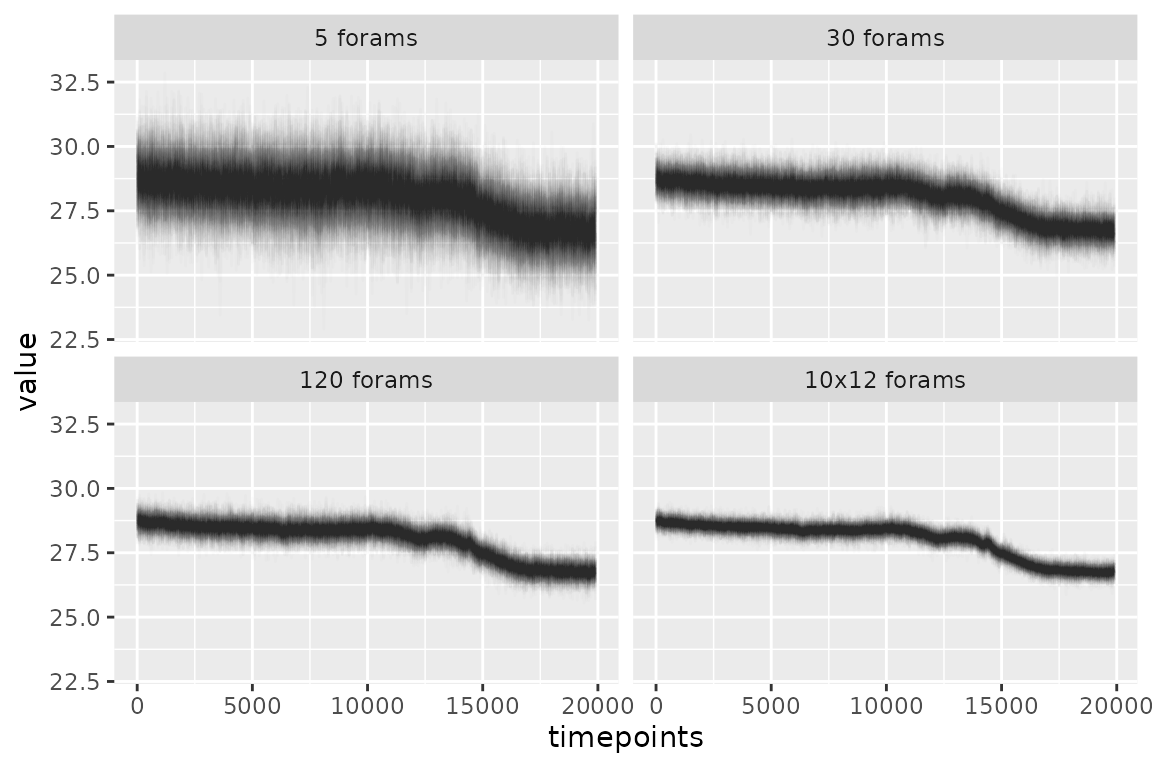
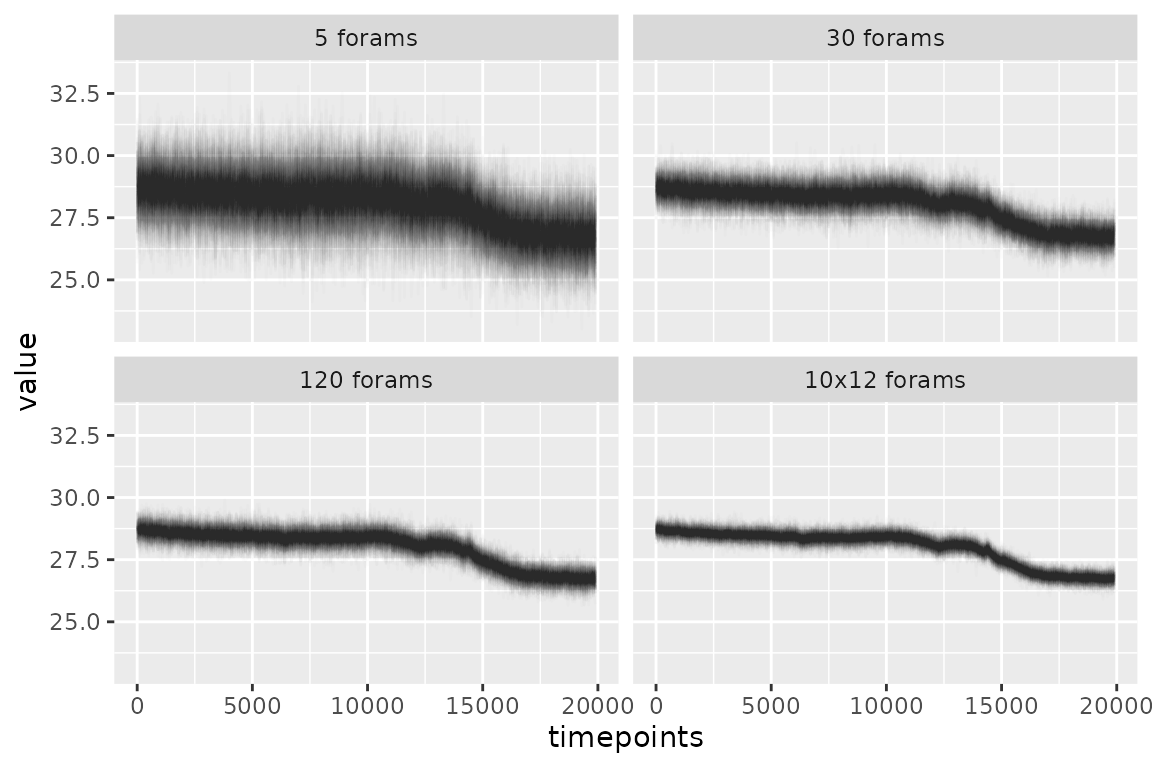
Deploying to gh-pages from @ EarthSystemDiagnostics/sedproxy@bc8ff098fba8550ed35e074e554b4f336eaf126f 🚀

diff --git a/index.html b/index.html
@@ -76,8 +76,11 @@
 <div class="section level2">
 <h2 id="installation">Installation<a class="anchor" aria-label="anchor" href="#installation"></a>
 </h2>
-<p><strong>sedproxy</strong> can be installed directly from github</p>
+<p><strong>sedproxy</strong> will soon be installable from CRAN</p>
 <div class="sourceCode" id="cb1"><pre class="downlit sourceCode r">
+<code class="sourceCode R"><span class="fu"><a href="https://rdrr.io/r/utils/install.packages.html" class="external-link">install.packages</a></span><span class="op">(</span><span class="st">"sedproxy"</span><span class="op">)</span></code></pre></div>
+<p>In the mean time the development version can be installed directly from GitHub</p>
+<div class="sourceCode" id="cb2"><pre class="downlit sourceCode r">
 <code class="sourceCode R"><span class="kw">if</span> <span class="op">(</span><span class="op">!</span><span class="kw"><a href="https://rdrr.io/r/base/library.html" class="external-link">require</a></span><span class="op">(</span><span class="st"><a href="https://devtools.r-lib.org/" class="external-link">"devtools"</a></span><span class="op">)</span><span class="op">)</span> <span class="op">{</span>
   <span class="fu"><a href="https://rdrr.io/r/utils/install.packages.html" class="external-link">install.packages</a></span><span class="op">(</span><span class="st">"devtools"</span><span class="op">)</span>
 <span class="op">}</span>
@@ -89,7 +92,7 @@
 </h2>
 <p>A Shiny app provides a graphical user interface to the main <code>sedproxy</code> function <code>ClimToProxyClim</code>. Currently this app forward models a proxy from a randomly generated input climate and serves only to illustrate the functionality of <code>sedproxy</code>. The user can alter the parameters of the forward model and observe the results graphically. In future versions it may be possible to load input climates and other input parameters from a file and to save the output.</p>
 <p>To run the Shiny app enter the following in the R terminal:</p>
-<div class="sourceCode" id="cb2"><pre class="downlit sourceCode r">
+<div class="sourceCode" id="cb3"><pre class="downlit sourceCode r">
 <code class="sourceCode R"><span class="kw"><a href="https://rdrr.io/r/base/library.html" class="external-link">library</a></span><span class="op">(</span><span class="va"><a href="https://earthsystemdiagnostics.github.io/sedproxy/">sedproxy</a></span><span class="op">)</span>
 <span class="fu"><a href="reference/ShinySedproxy.html">ShinySedproxy</a></span><span class="op">(</span><span class="op">)</span></code></pre></div>
 <p><img src="reference/figures/sedproxy-screenshot.png"></p>
@@ -101,11 +104,11 @@
 </h2>
 <p><code>sedproxy</code> includes example data for a single sediment core and location: core number 41 in the Shakun et al. (2012) compilation (MD97-2141, Rosenthal et al. 2003). The climate signal is taken from the <a href="http://www.cgd.ucar.edu/ccr/TraCE/" class="external-link">TraCE-21ka</a> Simulation of Transient Climate Evolution over the last 21,000 years, using the grid cell closest to core MD97-2141. Seasonality of <em>G.ruber</em>, the Foraminifera for which test Mg/Ca ratios were measured, is taken from the model of Fraile et al (2008). Sediment accumulation rates were estimated from the depth and age data associated with core MD97-2141, with a minimum rate of 0.2 * the mean rate.</p>
 <p><strong>The MD97-2141 core</strong></p>
-<div class="sourceCode" id="cb3"><pre class="downlit sourceCode r">
+<div class="sourceCode" id="cb4"><pre class="downlit sourceCode r">
 <code class="sourceCode R"><span class="kw"><a href="https://rdrr.io/r/base/library.html" class="external-link">library</a></span><span class="op">(</span><span class="va"><a href="https://tidyverse.tidyverse.org" class="external-link">tidyverse</a></span><span class="op">)</span>
 <span class="kw"><a href="https://rdrr.io/r/base/library.html" class="external-link">library</a></span><span class="op">(</span><span class="va"><a href="https://yihui.org/knitr/" class="external-link">knitr</a></span><span class="op">)</span>
 <span class="kw"><a href="https://rdrr.io/r/base/library.html" class="external-link">library</a></span><span class="op">(</span><span class="va"><a href="https://earthsystemdiagnostics.github.io/sedproxy/">sedproxy</a></span><span class="op">)</span></code></pre></div>
-<div class="sourceCode" id="cb4"><pre class="downlit sourceCode r">
+<div class="sourceCode" id="cb5"><pre class="downlit sourceCode r">
 <code class="sourceCode R"><span class="va">N41.proxy.details</span> <span class="op"><a href="https://magrittr.tidyverse.org/reference/pipe.html" class="external-link">%&gt;%</a></span> 
   <span class="fu"><a href="https://dplyr.tidyverse.org/reference/mutate_all.html" class="external-link">mutate_if</a></span><span class="op">(</span><span class="va">is.numeric</span>, <span class="va">round</span>, digits <span class="op">=</span> <span class="fl">2</span><span class="op">)</span> <span class="op"><a href="https://magrittr.tidyverse.org/reference/pipe.html" class="external-link">%&gt;%</a></span> 
   <span class="fu"><a href="https://tidyr.tidyverse.org/reference/gather.html" class="external-link">gather</a></span><span class="op">(</span><span class="op">)</span> <span class="op"><a href="https://magrittr.tidyverse.org/reference/pipe.html" class="external-link">%&gt;%</a></span> 
@@ -188,7 +191,7 @@
 </table>
 <p><strong>Input climate signal</strong></p>
 <p>The first 5 rows:</p>
-<div class="sourceCode" id="cb5"><pre class="downlit sourceCode r">
+<div class="sourceCode" id="cb6"><pre class="downlit sourceCode r">
 <code class="sourceCode R"><span class="op">(</span><span class="va">N41.t21k.climate</span><span class="op">[</span><span class="fl">1</span><span class="op">:</span><span class="fl">5</span>,<span class="op">]</span><span class="op">-</span><span class="fl">273.15</span><span class="op">)</span> <span class="op"><a href="https://magrittr.tidyverse.org/reference/pipe.html" class="external-link">%&gt;%</a></span> 
   <span class="fu"><a href="https://rdrr.io/pkg/knitr/man/kable.html" class="external-link">kable</a></span><span class="op">(</span><span class="va">.</span>, format <span class="op">=</span> <span class="st">"markdown"</span>, digits <span class="op">=</span> <span class="fl">2</span><span class="op">)</span></code></pre></div>
 <table class="table">
@@ -281,7 +284,7 @@
 </table>
 <p><strong>Actual proxy record</strong></p>
 <p>Core MD97-2141 (Rosenthal et al. 2003)</p>
-<div class="sourceCode" id="cb6"><pre class="downlit sourceCode r">
+<div class="sourceCode" id="cb7"><pre class="downlit sourceCode r">
 <code class="sourceCode R"><span class="fu"><a href="https://rdrr.io/pkg/knitr/man/kable.html" class="external-link">kable</a></span><span class="op">(</span><span class="fu"><a href="https://rdrr.io/r/utils/head.html" class="external-link">head</a></span><span class="op">(</span><span class="va">N41.proxy</span><span class="op">)</span>, format <span class="op">=</span> <span class="st">"markdown"</span><span class="op">)</span></code></pre></div>
 <table class="table">
 <thead><tr class="header">
@@ -336,7 +339,7 @@
 <a class="anchor" aria-label="anchor" href="#function-climtoproxyclim"></a>
 </h2>
 <p><code>ClimToProxyClim</code> is the main function in package <code>sedproxy</code>. It simulates a sediment archived proxy from an assumed true climate signal, the sediment accumulation rate, seasonality of the encoding organism/process, and the number of samples per timepoint.</p>
-<div class="sourceCode" id="cb7"><pre class="downlit sourceCode r">
+<div class="sourceCode" id="cb8"><pre class="downlit sourceCode r">
 <code class="sourceCode R"><span class="fu"><a href="https://rdrr.io/r/base/Random.html" class="external-link">set.seed</a></span><span class="op">(</span><span class="fl">26052017</span><span class="op">)</span>
 <span class="va">clim.in</span> <span class="op">&lt;-</span> <span class="va">N41.t21k.climate</span><span class="op">[</span><span class="fu"><a href="https://rdrr.io/r/base/nrow.html" class="external-link">nrow</a></span><span class="op">(</span><span class="va">N41.t21k.climate</span><span class="op">)</span><span class="op">:</span><span class="fl">1</span>,<span class="op">]</span> <span class="op">-</span> <span class="fl">273.15</span>
 
@@ -354,46 +357,46 @@
                        sigma.ind <span class="op">=</span> <span class="fl">2</span>,
                        n.samples <span class="op">=</span> <span class="fl">30</span>,
                        n.replicates <span class="op">=</span> <span class="fl">10</span><span class="op">)</span></code></pre></div>
-<div class="sourceCode" id="cb8"><pre class="downlit sourceCode r">
+<div class="sourceCode" id="cb9"><pre class="downlit sourceCode r">
 <code class="sourceCode R"><span class="va">PFM</span><span class="op">$</span><span class="va">everything</span></code></pre></div>
-<div class="sourceCode" id="cb9"><pre class="sourceCode R"><code class="sourceCode r"><span id="cb9-1"><a href="#cb9-1" aria-hidden="true" tabindex="-1"></a><span class="do">## # A tibble: 14,045 x 7</span></span>
-<span id="cb9-2"><a href="#cb9-2" aria-hidden="true" tabindex="-1"></a><span class="do">##    timepoints n.samples replicate stage             value scale       label     </span></span>
-<span id="cb9-3"><a href="#cb9-3" aria-hidden="true" tabindex="-1"></a><span class="do">##         &lt;dbl&gt;     &lt;dbl&gt;     &lt;dbl&gt; &lt;chr&gt;             &lt;dbl&gt; &lt;chr&gt;       &lt;chr&gt;     </span></span>
-<span id="cb9-4"><a href="#cb9-4" aria-hidden="true" tabindex="-1"></a><span class="do">##  1       4334        30         1 proxy.bt.sb.sampY  27.7 Proxy units (4) +Alia~</span></span>
-<span id="cb9-5"><a href="#cb9-5" aria-hidden="true" tabindex="-1"></a><span class="do">##  2       4527        30         1 proxy.bt.sb.sampY  27.7 Proxy units (4) +Alia~</span></span>
-<span id="cb9-6"><a href="#cb9-6" aria-hidden="true" tabindex="-1"></a><span class="do">##  3       4576        30         1 proxy.bt.sb.sampY  27.7 Proxy units (4) +Alia~</span></span>
-<span id="cb9-7"><a href="#cb9-7" aria-hidden="true" tabindex="-1"></a><span class="do">##  4       4721        30         1 proxy.bt.sb.sampY  27.6 Proxy units (4) +Alia~</span></span>
-<span id="cb9-8"><a href="#cb9-8" aria-hidden="true" tabindex="-1"></a><span class="do">##  5       4914        30         1 proxy.bt.sb.sampY  27.6 Proxy units (4) +Alia~</span></span>
-<span id="cb9-9"><a href="#cb9-9" aria-hidden="true" tabindex="-1"></a><span class="do">##  6       4994        30         1 proxy.bt.sb.sampY  27.6 Proxy units (4) +Alia~</span></span>
-<span id="cb9-10"><a href="#cb9-10" aria-hidden="true" tabindex="-1"></a><span class="do">##  7       5092        30         1 proxy.bt.sb.sampY  27.7 Proxy units (4) +Alia~</span></span>
-<span id="cb9-11"><a href="#cb9-11" aria-hidden="true" tabindex="-1"></a><span class="do">##  8       5156        30         1 proxy.bt.sb.sampY  27.6 Proxy units (4) +Alia~</span></span>
-<span id="cb9-12"><a href="#cb9-12" aria-hidden="true" tabindex="-1"></a><span class="do">##  9       5254        30         1 proxy.bt.sb.sampY  27.7 Proxy units (4) +Alia~</span></span>
-<span id="cb9-13"><a href="#cb9-13" aria-hidden="true" tabindex="-1"></a><span class="do">## 10       5318        30         1 proxy.bt.sb.sampY  27.7 Proxy units (4) +Alia~</span></span>
-<span id="cb9-14"><a href="#cb9-14" aria-hidden="true" tabindex="-1"></a><span class="do">## # ... with 14,035 more rows</span></span></code></pre></div>
+<div class="sourceCode" id="cb10"><pre class="sourceCode R"><code class="sourceCode r"><span id="cb10-1"><a href="#cb10-1" aria-hidden="true" tabindex="-1"></a><span class="do">## # A tibble: 14,045 x 7</span></span>
+<span id="cb10-2"><a href="#cb10-2" aria-hidden="true" tabindex="-1"></a><span class="do">##    timepoints n.samples replicate stage             value scale       label     </span></span>
+<span id="cb10-3"><a href="#cb10-3" aria-hidden="true" tabindex="-1"></a><span class="do">##         &lt;dbl&gt;     &lt;dbl&gt;     &lt;dbl&gt; &lt;chr&gt;             &lt;dbl&gt; &lt;chr&gt;       &lt;chr&gt;     </span></span>
+<span id="cb10-4"><a href="#cb10-4" aria-hidden="true" tabindex="-1"></a><span class="do">##  1       4334        30         1 proxy.bt.sb.sampY  27.7 Proxy units (4) +Alia~</span></span>
+<span id="cb10-5"><a href="#cb10-5" aria-hidden="true" tabindex="-1"></a><span class="do">##  2       4527        30         1 proxy.bt.sb.sampY  27.7 Proxy units (4) +Alia~</span></span>
+<span id="cb10-6"><a href="#cb10-6" aria-hidden="true" tabindex="-1"></a><span class="do">##  3       4576        30         1 proxy.bt.sb.sampY  27.7 Proxy units (4) +Alia~</span></span>
+<span id="cb10-7"><a href="#cb10-7" aria-hidden="true" tabindex="-1"></a><span class="do">##  4       4721        30         1 proxy.bt.sb.sampY  27.6 Proxy units (4) +Alia~</span></span>
+<span id="cb10-8"><a href="#cb10-8" aria-hidden="true" tabindex="-1"></a><span class="do">##  5       4914        30         1 proxy.bt.sb.sampY  27.6 Proxy units (4) +Alia~</span></span>
+<span id="cb10-9"><a href="#cb10-9" aria-hidden="true" tabindex="-1"></a><span class="do">##  6       4994        30         1 proxy.bt.sb.sampY  27.6 Proxy units (4) +Alia~</span></span>
+<span id="cb10-10"><a href="#cb10-10" aria-hidden="true" tabindex="-1"></a><span class="do">##  7       5092        30         1 proxy.bt.sb.sampY  27.7 Proxy units (4) +Alia~</span></span>
+<span id="cb10-11"><a href="#cb10-11" aria-hidden="true" tabindex="-1"></a><span class="do">##  8       5156        30         1 proxy.bt.sb.sampY  27.6 Proxy units (4) +Alia~</span></span>
+<span id="cb10-12"><a href="#cb10-12" aria-hidden="true" tabindex="-1"></a><span class="do">##  9       5254        30         1 proxy.bt.sb.sampY  27.7 Proxy units (4) +Alia~</span></span>
+<span id="cb10-13"><a href="#cb10-13" aria-hidden="true" tabindex="-1"></a><span class="do">## 10       5318        30         1 proxy.bt.sb.sampY  27.7 Proxy units (4) +Alia~</span></span>
+<span id="cb10-14"><a href="#cb10-14" aria-hidden="true" tabindex="-1"></a><span class="do">## # ... with 14,035 more rows</span></span></code></pre></div>
 <p><strong>Simple plotting</strong></p>
-<div class="sourceCode" id="cb10"><pre class="downlit sourceCode r">
+<div class="sourceCode" id="cb11"><pre class="downlit sourceCode r">
 <code class="sourceCode R"><span class="va">PFM</span> <span class="op"><a href="https://magrittr.tidyverse.org/reference/pipe.html" class="external-link">%&gt;%</a></span> 
   <span class="fu"><a href="reference/PlotPFMs.html">PlotPFMs</a></span><span class="op">(</span>max.replicates <span class="op">=</span> <span class="fl">1</span><span class="op">)</span></code></pre></div>
-<div class="sourceCode" id="cb11"><pre class="sourceCode R"><code class="sourceCode r"><span id="cb11-1"><a href="#cb11-1" aria-hidden="true" tabindex="-1"></a><span class="do">## Joining, by = c("stage", "scale")</span></span>
-<span id="cb11-2"><a href="#cb11-2" aria-hidden="true" tabindex="-1"></a><span class="do">## Scale for 'alpha' is already present. Adding another scale for 'alpha', which</span></span>
-<span id="cb11-3"><a href="#cb11-3" aria-hidden="true" tabindex="-1"></a><span class="do">## will replace the existing scale.</span></span></code></pre></div>
+<div class="sourceCode" id="cb12"><pre class="sourceCode R"><code class="sourceCode r"><span id="cb12-1"><a href="#cb12-1" aria-hidden="true" tabindex="-1"></a><span class="do">## Joining, by = c("stage", "scale")</span></span>
+<span id="cb12-2"><a href="#cb12-2" aria-hidden="true" tabindex="-1"></a><span class="do">## Scale for 'alpha' is already present. Adding another scale for 'alpha', which</span></span>
+<span id="cb12-3"><a href="#cb12-3" aria-hidden="true" tabindex="-1"></a><span class="do">## will replace the existing scale.</span></span></code></pre></div>
 <p><img src="reference/figures/README-default_plot-1.svg" width="100%"></p>
 <p><strong>Plot 5 replicates of the final simulated proxy</strong></p>
-<div class="sourceCode" id="cb12"><pre class="downlit sourceCode r">
+<div class="sourceCode" id="cb13"><pre class="downlit sourceCode r">
 <code class="sourceCode R"><span class="va">PFM</span> <span class="op"><a href="https://magrittr.tidyverse.org/reference/pipe.html" class="external-link">%&gt;%</a></span> 
   <span class="co">#filter(stage == "simulated.proxy") %&gt;% </span>
   <span class="fu"><a href="reference/PlotPFMs.html">PlotPFMs</a></span><span class="op">(</span><span class="va">.</span>, max.replicates <span class="op">=</span> <span class="fl">5</span>, plot.stages <span class="op">=</span> <span class="st">"simulated.proxy"</span><span class="op">)</span></code></pre></div>
-<div class="sourceCode" id="cb13"><pre class="sourceCode R"><code class="sourceCode r"><span id="cb13-1"><a href="#cb13-1" aria-hidden="true" tabindex="-1"></a><span class="do">## Joining, by = c("stage", "scale")</span></span>
-<span id="cb13-2"><a href="#cb13-2" aria-hidden="true" tabindex="-1"></a><span class="do">## Scale for 'alpha' is already present. Adding another scale for 'alpha', which</span></span>
-<span id="cb13-3"><a href="#cb13-3" aria-hidden="true" tabindex="-1"></a><span class="do">## will replace the existing scale.</span></span></code></pre></div>
+<div class="sourceCode" id="cb14"><pre class="sourceCode R"><code class="sourceCode r"><span id="cb14-1"><a href="#cb14-1" aria-hidden="true" tabindex="-1"></a><span class="do">## Joining, by = c("stage", "scale")</span></span>
+<span id="cb14-2"><a href="#cb14-2" aria-hidden="true" tabindex="-1"></a><span class="do">## Scale for 'alpha' is already present. Adding another scale for 'alpha', which</span></span>
+<span id="cb14-3"><a href="#cb14-3" aria-hidden="true" tabindex="-1"></a><span class="do">## will replace the existing scale.</span></span></code></pre></div>
 <p><img src="reference/figures/README-plot_reps-1.svg" width="100%"></p>
 <p><strong>Conversion to proxy units</strong></p>
 <p>The initial input climate signal can be converted into “proxy units” if a <code>calibration.type</code> is specified. This simulates the Environment -&gt; Sensor stage of the proxy system.</p>
-<div class="sourceCode" id="cb14"><pre class="sourceCode R"><code class="sourceCode r"><span id="cb14-1"><a href="#cb14-1" aria-hidden="true" tabindex="-1"></a><span class="do">## Rescaling noise</span></span>
-<span id="cb14-2"><a href="#cb14-2" aria-hidden="true" tabindex="-1"></a></span>
-<span id="cb14-3"><a href="#cb14-3" aria-hidden="true" tabindex="-1"></a><span class="do">## Joining, by = c("stage", "scale")</span></span>
-<span id="cb14-4"><a href="#cb14-4" aria-hidden="true" tabindex="-1"></a><span class="do">## Scale for 'alpha' is already present. Adding another scale for 'alpha', which</span></span>
-<span id="cb14-5"><a href="#cb14-5" aria-hidden="true" tabindex="-1"></a><span class="do">## will replace the existing scale.</span></span></code></pre></div>
+<div class="sourceCode" id="cb15"><pre class="sourceCode R"><code class="sourceCode r"><span id="cb15-1"><a href="#cb15-1" aria-hidden="true" tabindex="-1"></a><span class="do">## Rescaling noise</span></span>
+<span id="cb15-2"><a href="#cb15-2" aria-hidden="true" tabindex="-1"></a></span>
+<span id="cb15-3"><a href="#cb15-3" aria-hidden="true" tabindex="-1"></a><span class="do">## Joining, by = c("stage", "scale")</span></span>
+<span id="cb15-4"><a href="#cb15-4" aria-hidden="true" tabindex="-1"></a><span class="do">## Scale for 'alpha' is already present. Adding another scale for 'alpha', which</span></span>
+<span id="cb15-5"><a href="#cb15-5" aria-hidden="true" tabindex="-1"></a><span class="do">## will replace the existing scale.</span></span></code></pre></div>
 <p><img src="reference/figures/README-MgCa_plot-1.svg" width="100%"></p>
 </div>
 <div class="section level2">

diff --git a/articles/introduction-to-sedproxy.html b/articles/introduction-to-sedproxy.html
@@ -195,16 +195,16 @@
 <pre><code><span class="co">## <span style="color: #949494;"># A tibble: 28,839 × 7</span></span>
 <span class="co">##    timepoints n.samples replicate stage             value scale       label     </span>
 <span class="co">##         <span style="color: #949494; font-style: italic;">&lt;dbl&gt;</span>     <span style="color: #949494; font-style: italic;">&lt;dbl&gt;</span>     <span style="color: #949494; font-style: italic;">&lt;dbl&gt;</span> <span style="color: #949494; font-style: italic;">&lt;chr&gt;</span>             <span style="color: #949494; font-style: italic;">&lt;dbl&gt;</span> <span style="color: #949494; font-style: italic;">&lt;chr&gt;</span>       <span style="color: #949494; font-style: italic;">&lt;chr&gt;</span>     </span>
-<span class="co">## <span style="color: #BCBCBC;"> 1</span>          1        30         1 proxy.bt.sb.sampY  28.7 Proxy units (4) +Alia…</span>
-<span class="co">## <span style="color: #BCBCBC;"> 2</span>        101        30         1 proxy.bt.sb.sampY  28.8 Proxy units (4) +Alia…</span>
-<span class="co">## <span style="color: #BCBCBC;"> 3</span>        201        30         1 proxy.bt.sb.sampY  28.7 Proxy units (4) +Alia…</span>
+<span class="co">## <span style="color: #BCBCBC;"> 1</span>          1        30         1 proxy.bt.sb.sampY  28.8 Proxy units (4) +Alia…</span>
+<span class="co">## <span style="color: #BCBCBC;"> 2</span>        101        30         1 proxy.bt.sb.sampY  28.7 Proxy units (4) +Alia…</span>
+<span class="co">## <span style="color: #BCBCBC;"> 3</span>        201        30         1 proxy.bt.sb.sampY  28.8 Proxy units (4) +Alia…</span>
 <span class="co">## <span style="color: #BCBCBC;"> 4</span>        301        30         1 proxy.bt.sb.sampY  28.7 Proxy units (4) +Alia…</span>
-<span class="co">## <span style="color: #BCBCBC;"> 5</span>        401        30         1 proxy.bt.sb.sampY  28.7 Proxy units (4) +Alia…</span>
+<span class="co">## <span style="color: #BCBCBC;"> 5</span>        401        30         1 proxy.bt.sb.sampY  28.6 Proxy units (4) +Alia…</span>
 <span class="co">## <span style="color: #BCBCBC;"> 6</span>        501        30         1 proxy.bt.sb.sampY  28.7 Proxy units (4) +Alia…</span>
-<span class="co">## <span style="color: #BCBCBC;"> 7</span>        601        30         1 proxy.bt.sb.sampY  28.7 Proxy units (4) +Alia…</span>
+<span class="co">## <span style="color: #BCBCBC;"> 7</span>        601        30         1 proxy.bt.sb.sampY  28.6 Proxy units (4) +Alia…</span>
 <span class="co">## <span style="color: #BCBCBC;"> 8</span>        701        30         1 proxy.bt.sb.sampY  28.6 Proxy units (4) +Alia…</span>
-<span class="co">## <span style="color: #BCBCBC;"> 9</span>        801        30         1 proxy.bt.sb.sampY  28.6 Proxy units (4) +Alia…</span>
-<span class="co">## <span style="color: #BCBCBC;">10</span>        901        30         1 proxy.bt.sb.sampY  28.7 Proxy units (4) +Alia…</span>
+<span class="co">## <span style="color: #BCBCBC;"> 9</span>        801        30         1 proxy.bt.sb.sampY  28.7 Proxy units (4) +Alia…</span>
+<span class="co">## <span style="color: #BCBCBC;">10</span>        901        30         1 proxy.bt.sb.sampY  28.6 Proxy units (4) +Alia…</span>
 <span class="co">## <span style="color: #949494;"># … with 28,829 more rows</span></span></code></pre>
 <div class="sourceCode" id="cb18"><pre class="downlit sourceCode r">
 <code class="sourceCode R"><span class="va">PFM.5.reps</span><span class="op">$</span><span class="va">everything</span> <span class="op"><a href="https://magrittr.tidyverse.org/reference/pipe.html" class="external-link">%&gt;%</a></span> 
@@ -349,22 +349,22 @@
 <tr class="odd">
 <td align="left">simulated.proxy</td>
 <td align="left">5 forams</td>
-<td align="right">1.0444357</td>
+<td align="right">1.0485123</td>
 </tr>
 <tr class="even">
 <td align="left">simulated.proxy</td>
 <td align="left">30 forams</td>
-<td align="right">0.4872122</td>
+<td align="right">0.4864780</td>
 </tr>
 <tr class="odd">
 <td align="left">simulated.proxy</td>
 <td align="left">120 forams</td>
-<td align="right">0.3317448</td>
+<td align="right">0.3323599</td>
 </tr>
 <tr class="even">
 <td align="left">simulated.proxy</td>
 <td align="left">10x12 forams</td>
-<td align="right">0.2220948</td>
+<td align="right">0.2219217</td>
 </tr>
 </tbody>
 </table>
